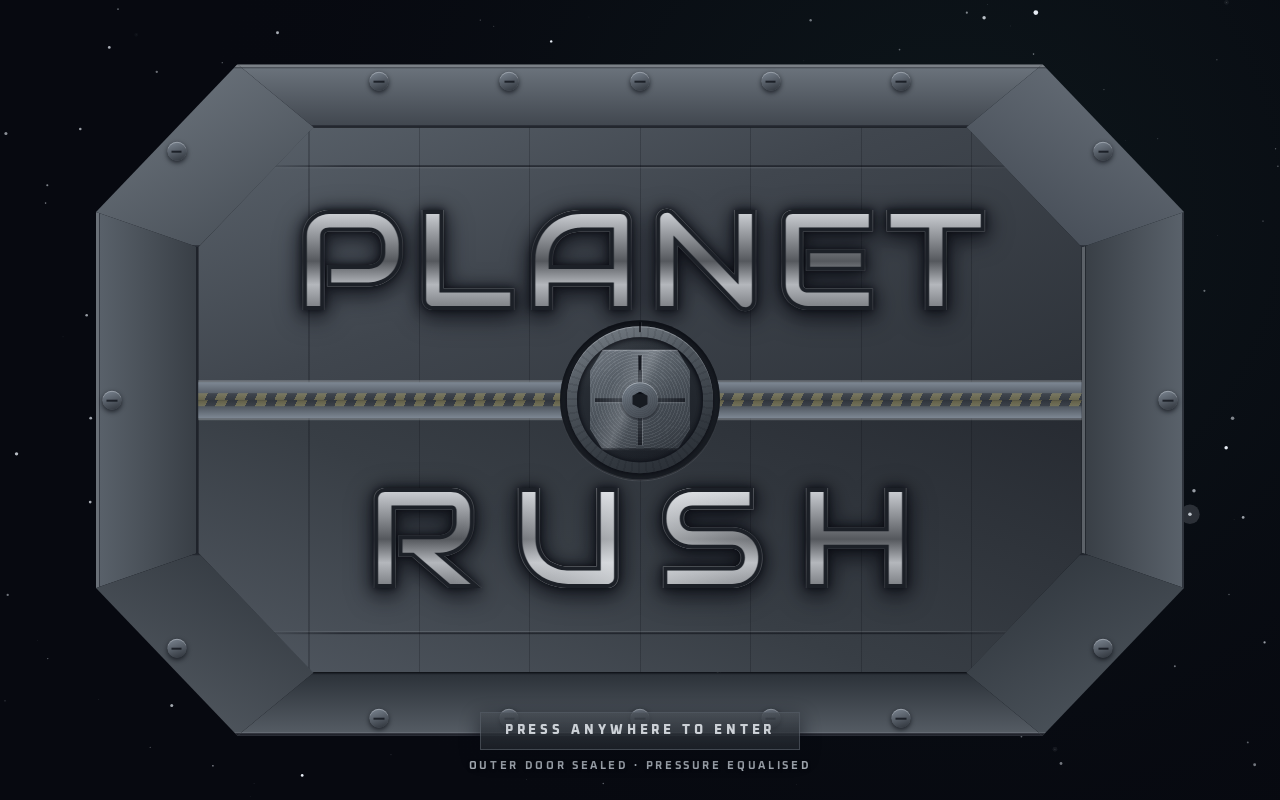
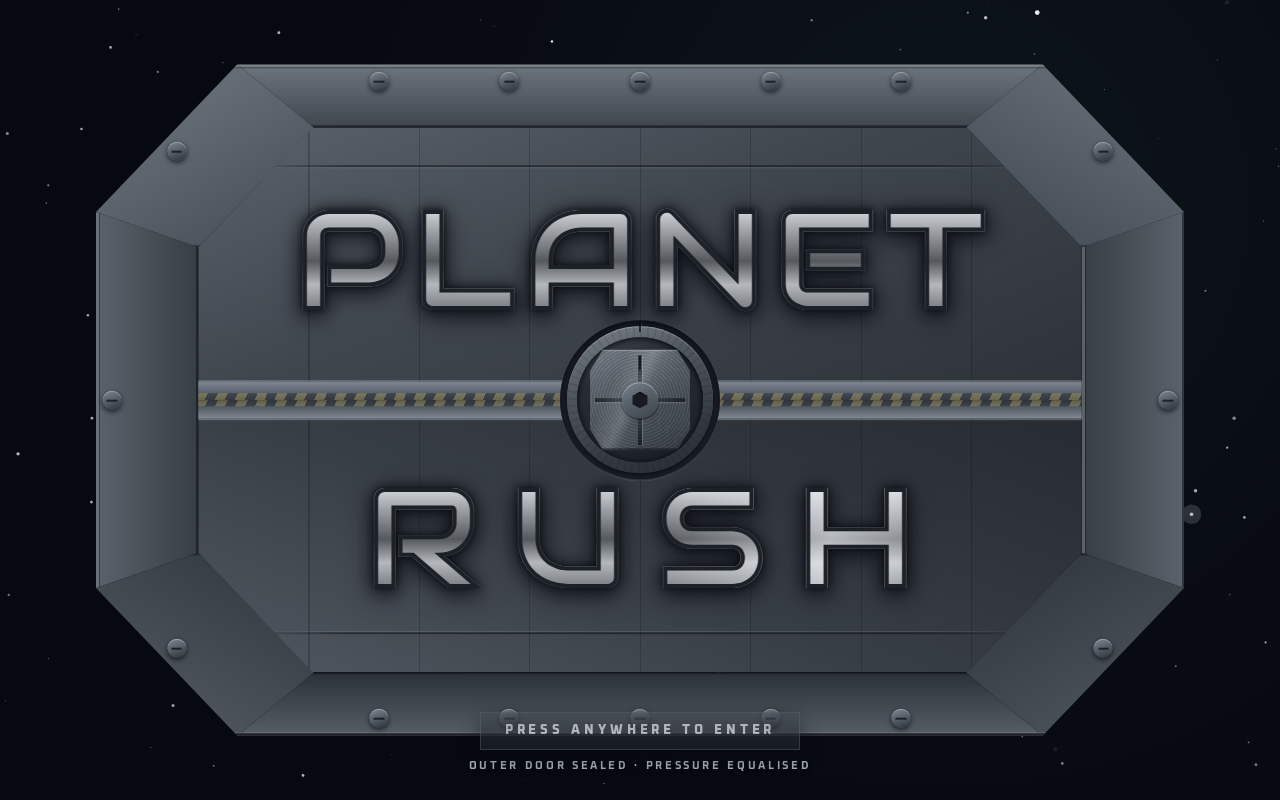
fix(a0-50): the door turns with the game — the landscape lock reaches the overlay
Second thing found in a browser and invisible to every test in this repo, on the
device the developer actually plays on.

A phone held portrait gets a game rotated +90° so the player turns the handset
(`../platform/orientation`). The gate is DOM, so it does not ride that rotation
for free — and a gate that ignores it is a **portrait door in front of a
landscape menu**. Photographed on a 390x844 handset it was worse than sideways:
every measurement on this screen is viewport-relative, and rotating a root does
not change what `vw` and `vh` mean. The lock is `min(148px, 17vh)`, and in
portrait `vh` is the LONG side, so the rotor sat at its pixel cap while the door
shrank under it — a rotor two thirds the height of the door it is bolted through,
a clearance (`min(74px, 8.5vh)`) that ate the whole leaf, and both words clipped
through the middle.

It needs both halves, and the first alone made it worse rather than better:

- **The root takes the lock's own transform.** `gateRootLayoutCss` is the CSS
  spelling of `RootTransform` — `{ rotation: π/2, x: physW, y: 0 }` as
  `transform-origin:0 0; translateX(physW) rotate(90deg)`, with the element sized
  to the LOGICAL rect. `computeRootTransform` is imported rather than restated,
  so the door and the game cannot disagree about which way is up. Same trick
  `src/net/playtest-log-button.ts` plays, for the same reason.
- **Every unit is read against the logical viewport.** `--pr-gate-vw` /
[…]

diff --git a/src/ui/title-gate.ts b/src/ui/title-gate.ts
@@ -93,6 +93,11 @@
  */
 
 import { mulberry32 } from '@shared/types';
+// The landscape lock, shared with the Pixi root rather than restated: a portrait
+// handset gets a game rotated +90°, and a door that ignores that is a portrait
+// door in front of a landscape menu (see `gateRootLayoutCss`).
+import { computeRootTransform } from '@platform/orientation';
+import type { RootTransform } from '@platform/orientation';
 import { FLOOR, PALETTE } from '../art/tokens';
 import { GAME_NAME, extraTracking, splitWordmark } from './game-name';
 import type { GateCue, GateSfx } from './sfx';
@@ -506,7 +511,7 @@ function titleFont(track: number): string {
   const size = TITLE.size / 100;
   return (
     'font-family:Audiowide,system-ui,sans-serif;' +
-    `font-size:min(clamp(20px,${(8.2 * size).toFixed(2)}vw,${Math.round(108 * size)}px),${(11.4 * size).toFixed(2)}vh);` +
+    `font-size:min(clamp(20px,${vw(8.2 * size)},${Math.round(108 * size)}px),${vh(11.4 * size)});` +
     'line-height:.92;white-space:nowrap;' +
     `letter-spacing:${track.toFixed(3)}em;` +
     // Letter-spacing adds a trailing space the browser then centres, so the
@@ -644,9 +649,73 @@ export const TITLE_GATE_LEAF_ID = 'pr-title-gate-leaf';
  * exactly as {@link throughScale} is, and `#app` carries the safe-area padding.
  */
 export const TITLE_GATE_ROOT_CSS =
-  'position:fixed;inset:0;overflow:hidden;z-index:20;background:transparent;' +
+  'position:fixed;left:0;top:0;overflow:hidden;z-index:20;background:transparent;' +
   'font-family:Oxanium,system-ui,sans-serif;cursor:var(--pr-gate-cursor,pointer);' +
   'touch-action:none;-webkit-tap-highlight-color:transparent;';
+
+/**
+ * The overlay's half of the **landscape lock** — the rest of it is
+ * `../platform/orientation`, and this is the DOM restatement of the exact same
+ * transform the Pixi root already takes.
+ *
+ * A phone held portrait gets a game rotated +90° so the player turns the handset
+ * (`computeRootTransform`). The gate is DOM, so it does not ride that rotation
+ * for free, and a gate that ignores it is a **portrait door in front of a
+ * landscape menu**: the leaves open onto a menu lying on its side, and — because
+ * every measurement on this screen is viewport-relative — the door itself comes
+ * out wrong on the way there. Photographed on a 390×844 handset: the lock swells
+ * to two thirds of the door's height (it is sized off `vh`, and in portrait `vh`
+ * is the LONG side), the clearance under it eats the whole leaf, and both words
+ * are clipped through the middle. The screen is unreadable, and no test in this
+ * repo can see it — the mobile suite boots `?gate=0`.
+ *
+ * So the overlay is laid out in the LOGICAL (landscape) viewport and rotated onto
+ * the physical one, which is the same trick `src/net/playtest-log-button.ts`
+ * plays for the same reason. `transform-origin:0 0` with `translateX(physW)`
+ * lands the rotated rect exactly on the screen — the CSS spelling of
+ * `RootTransform`'s `{ rotation: π/2, x: physW, y: 0 }`, no gaps.
+ *
+ * Everywhere else — desktop, and any landscape viewport — it is the identity, and
+ * the element is simply the window.
+ */
+export function gateRootLayoutCss(t: {
+  readonly rotated: boolean;
+  readonly logicalWidth: number;
+  readonly logicalHeight: number;
+}): string {
+  // The two units the whole screen is drawn in, pinned to the LOGICAL viewport.
+  // Rotating the root does not change what `vw` and `vh` mean — they are always
+  // the physical window — so a door written in raw viewport units comes out
+  // measured against the wrong sides the moment the lock engages. These are one
+  // percent of the box the door actually lives in, and everything below reads
+  // them through {@link vw} / {@link vh}.
+  const units = `--pr-gate-vw:${t.logicalWidth / 100}px;--pr-gate-vh:${t.logicalHeight / 100}px;`;
+  if (!t.rotated) return `${units}width:100%;height:100%;transform:none;transform-origin:50% 50%;`;
+  // Rotated: the element is the LOGICAL rect, and `logicalHeight` is the physical
+  // width — which is exactly the translation the transform needs.
+  return (
+    units +
+    `width:${t.logicalWidth}px;height:${t.logicalHeight}px;` +
+    `transform-origin:0 0;transform:translateX(${t.logicalHeight}px) rotate(90deg);`
+  );
+}
+
+/**
+ * `n` percent of the logical viewport's WIDTH — `n vw`, measured against the box
+ * the door is laid out in rather than against the physical window.
+ *
+ * The fallback is the raw unit, so an overlay that has not been laid out yet (or
+ * a caller rendering the markup on its own, as the tests do) behaves exactly as
+ * the design file does. See {@link gateRootLayoutCss}.
+ */
+function vw(n: number): string {
+  return `calc(var(--pr-gate-vw, 1vw) * ${Number(n.toFixed(3))})`;
+}
+
+/** `n` percent of the logical viewport's HEIGHT. See {@link vw}. */
+function vh(n: number): string {
+  return `calc(var(--pr-gate-vh, 1vh) * ${Number(n.toFixed(3))})`;
+}
 
 /** The self-hosted faces, byte-identical to `index.html`'s declarations. */
 export const FONT_URLS = {
@@ -689,7 +758,7 @@ const OPENING_CLIP = (() => {
 /** One machined fastener, seated in the jamb ring at `x`/`y` percent. */
 function bolt(x: string, y: string): string {
   return (
-    `<div style="position:absolute;left:${x};top:${y};width:min(19px,1.6vw);aspect-ratio:1;` +
+    `<div style="position:absolute;left:${x};top:${y};width:min(19px,${vw(1.6)});aspect-ratio:1;` +
     'transform:translate(-50%,-50%) scale(var(--pr-gate-bolt-scale));' +
     `transition:transform ${TRANSITION.bolt}ms cubic-bezier(.4,0,.2,1);">` +
     '<div style="width:100%;height:100%;border-radius:50%;background:linear-gradient(160deg,#7e8894,#2d3239);' +
@@ -726,7 +795,7 @@ function flangeScrews(): string {
 function lock(): string {
   const facet = `clip-path:${OPENING_CLIP};`;
   return (
-    '<div style="position:absolute;left:50%;bottom:0;width:min(148px,17vh);aspect-ratio:1;' +
+    `<div style="position:absolute;left:50%;bottom:0;width:min(148px,${vh(17)});aspect-ratio:1;` +
     `transform:translate(-50%,50%) scale(var(--pr-gate-hub-scale));transition:transform ${TRANSITION.hub}ms ease-out;">` +
     // the bored pocket the mechanism is recessed into
     `<div style="position:absolute;inset:-9%;border-radius:50%;background:radial-gradient(circle,#1a1e24 62%,#2b3138 100%);box-shadow:inset 0 3px 7px rgba(${INK},.95), inset 0 -1px 0 rgba(238,242,247,.14), 0 1px 0 rgba(238,242,247,.1);"></div>` +
@@ -810,7 +879,7 @@ function leaf(word: string, track: number, canClip: boolean, upper: boolean): st
     `<div style="position:absolute;left:0;right:0;${edge}:6.5%;height:2px;background:rgba(238,242,247,.26);"></div>` +
     `<div style="position:absolute;left:0;right:0;${edge}:0;height:2.4%;opacity:var(--pr-gate-haz-op);transition:opacity ${TRANSITION.hazard}ms ease-out;background:repeating-linear-gradient(115deg, rgba(${HAZARD},.44) 0 9px, rgba(38,42,49,.94) 9px 18px);"></div>` +
     // the type, struck into the leaf and travelling with it
-    `<div style="position:absolute;left:6%;right:6%;${edge}:calc(min(74px,8.5vh) + ${TITLE.lockGap}%);display:flex;justify-content:center;isolation:isolate;">` +
+    `<div style="position:absolute;left:6%;right:6%;${edge}:calc(min(74px,${vh(8.5)}) + ${TITLE.lockGap}%);display:flex;justify-content:center;isolation:isolate;">` +
     `<span style="${titleCss(track, canClip)}${sheenDelay}">${escapeHtml(word)}</span>` +
     '</div>' +
     '</div>'
@@ -875,7 +944,7 @@ export function titleGateHtml(options: GateHtmlOptions = {}): string {
     // inside the frame's clip, which is why they read as retracting INTO the
     // hull instead of sliding across it.
     `<div id="${TITLE_GATE_DOOR_ID}" style="position:absolute;z-index:3;left:50%;top:50%;` +
-    `width:min(${DOOR.widthOfVw * 100}vw,${DOOR.widthOfVh * 100}vh);aspect-ratio:${DOOR.aspect};` +
+    `width:min(${vw(DOOR.widthOfVw * 100)},${vh(DOOR.widthOfVh * 100)});aspect-ratio:${DOOR.aspect};` +
     'transform:translate(-50%,-50%) scale(var(--pr-gate-door-scale));opacity:var(--pr-gate-door-op);' +
     `transition:transform ${TRANSITION.frame}ms cubic-bezier(.42,0,.5,1), opacity ${TRANSITION.fade}ms linear;pointer-events:none;">` +
     jamb() +
@@ -892,12 +961,12 @@ export function titleGateHtml(options: GateHtmlOptions = {}): string {
     '</div>' +
     // The prompt. Register 2 (style-guide §8): procedural, unglamorous, present
     // tense, and it names the action in its first three words.
-    '<div style="position:absolute;z-index:4;left:0;right:0;bottom:max(3.4vh,22px);display:flex;flex-direction:column;align-items:center;gap:9px;' +
+    `<div style="position:absolute;z-index:4;left:0;right:0;bottom:max(${vh(3.4)},22px);display:flex;flex-direction:column;align-items:center;gap:9px;` +
     `opacity:var(--pr-gate-prompt-op);transition:opacity ${TRANSITION.hazard}ms ease-out;pointer-events:none;">` +
     `<div style="display:flex;align-items:center;padding:10px 24px;border:1px solid #515861;background:linear-gradient(180deg,rgba(198,205,214,.1),rgba(198,205,214,0) 50%),linear-gradient(#383e45,#20252c);box-shadow:0 6px 20px rgba(${INK},.75);animation:pr-gate-prompt 2.1s ease-in-out infinite;">` +
-    `<span style="font-family:Oxanium,system-ui,sans-serif;font-weight:800;font-size:clamp(10px,1.2vw,13px);letter-spacing:.3em;color:${BONE_WHITE};">${PROMPT}</span>` +
+    `<span style="font-family:Oxanium,system-ui,sans-serif;font-weight:800;font-size:clamp(10px,${vw(1.2)},13px);letter-spacing:.3em;color:${BONE_WHITE};">${PROMPT}</span>` +
     '</div>' +
-    `<span style="font-family:Oxanium,system-ui,sans-serif;font-weight:700;font-size:clamp(9px,1vw,11px);letter-spacing:.24em;color:#a5acb4;text-shadow:0 1px 3px rgba(${INK},.9);">${STATUS_LINE}</span>` +
+    `<span style="font-family:Oxanium,system-ui,sans-serif;font-weight:700;font-size:clamp(9px,${vw(1)},11px);letter-spacing:.24em;color:#a5acb4;text-shadow:0 1px 3px rgba(${INK},.9);">${STATUS_LINE}</span>` +
     '</div>'
   );
 }
@@ -1517,6 +1586,13 @@ export interface GateBrowser {
   readonly window: Window & typeof globalThis;
   /** Where the overlay goes: `#app`, above the game canvas. */
   readonly mount: HTMLElement;
+  /**
+   * Is this a touch device — the input to the landscape lock, and the ONLY thing
+   * that decides whether a portrait viewport is a phone held portrait or a
+   * narrow desktop window (`../platform/orientation` `computeRootTransform`).
+   * Defaults to the same read `src/main.ts` makes.
+   */
+  readonly isTouch?: boolean;
 }
 
 /**
@@ -1531,11 +1607,36 @@ export interface GateBrowser {
  */
 export function browserGateDom(browser: GateBrowser): GateDom {
   const { document: doc, window: win, mount: host } = browser;
+  const isTouch =
+    browser.isTouch ?? ('ontouchstart' in win || (win.navigator?.maxTouchPoints ?? 0) > 0);
   let root: HTMLElement | null = null;
   let canvas: HTMLCanvasElement | null = null;
   let door: HTMLElement | null = null;
   let leaf: HTMLElement | null = null;
   let unbind: (() => void)[] = [];
+  /** The gate's own custom properties, kept so a relayout can replay them. */
+  const vars = new Map<string, string>();
+
+  /** The live landscape lock, read from the real window each time it is needed —
+   *  a phone can be turned while this screen is up. */
+  const transform = (): RootTransform =>
+    computeRootTransform(win.innerWidth, win.innerHeight, isTouch);
+
+  /**
+   * Re-lay the overlay for the orientation it is in now. Idempotent, so the
+   * resize listener can call it on every event without measuring anything.
+   *
+   * `cssText` replaces the whole declaration block, custom properties included,
+   * so the gate's own variables are replayed after it. Setting them one property
+   * at a time instead would put the layout in two places — the string the tests
+   * hold and the writes the browser gets — and those are exactly the two that
+   * must not be allowed to disagree.
+   */
+  const applyLayout = (): void => {
+    if (!root) return;
+    root.style.cssText = TITLE_GATE_ROOT_CSS + gateRootLayoutCss(transform());
+    for (const [name, value] of vars) root.style.setProperty(name, value);
+  };
 
   /** A CSS transform's `translateY`/`scale`, read off the live computed style —
    *  which is what "measured, never assumed" means in a browser. */
@@ -1554,10 +1655,10 @@ export function browserGateDom(browser: GateBrowser): GateDom {
     mount(html, on) {
       const el = doc.createElement('div');
       el.id = TITLE_GATE_ID;
-      el.style.cssText = TITLE_GATE_ROOT_CSS;
       el.innerHTML = html;
       host.appendChild(el);
       root = el;
+      applyLayout();
       canvas = el.querySelector<HTMLCanvasElement>(`#${TITLE_GATE_SKY_ID}`);
       door = el.querySelector<HTMLElement>(`#${TITLE_GATE_DOOR_ID}`);
       leaf = el.querySelector<HTMLElement>(`#${TITLE_GATE_LEAF_ID}`);
@@ -1572,7 +1673,13 @@ export function browserGateDom(browser: GateBrowser): GateDom {
           on.escape();
         }
       };
-      const resize = (): void => on.resize();
+      // The lock is re-applied BEFORE the gate re-measures, so `view()` and the
+      // canvas below it agree with the element they are describing on the very
+      // first frame after a flip rather than one frame later.
+      const resize = (): void => {
+        applyLayout();
+        on.resize();
+      };
       el.addEventListener('pointerdown', press);
       win.addEventListener('keydown', key);
       win.addEventListener('resize', resize);
@@ -1592,6 +1699,7 @@ export function browserGateDom(browser: GateBrowser): GateDom {
       leaf = null;
     },
     setVar(name, value) {
+      vars.set(name, value);
       root?.style.setProperty(name, value);
     },
     setVisible(visible) {
@@ -1620,9 +1728,14 @@ export function browserGateDom(browser: GateBrowser): GateDom {
       return m ? Math.abs(m.f) : null;
     },
     view() {
+      // The LOGICAL (landscape) viewport, which is the space the whole screen is
+      // laid out in — `throughScale`, the door box and the punch alike. On a
+      // desktop or a landscape phone it is the window; on a phone held portrait
+      // it is the window with its sides swapped, and the root carries the +90°.
+      const t = transform();
       return {
-        width: win.innerWidth,
-        height: win.innerHeight,
+        width: t.logicalWidth,
+        height: t.logicalHeight,
         dpr: Math.min(2, win.devicePixelRatio || 1),
       };
     },

diff --git a/src/ui/title-gate.test.ts b/src/ui/title-gate.test.ts
@@ -36,6 +36,7 @@ import {
   doorBox,
   fieldAnimates,
   gateEnabled,
+  gateRootLayoutCss,
   gateVars,
   insidePolygon,
   makeStars,
@@ -53,6 +54,7 @@ import {
   type GatePhase,
   type GateView,
 } from './title-gate';
+import { computeRootTransform } from '@platform/orientation';
 import { extraTracking, splitWordmark } from './game-name';
 import type { GateCue } from './sfx';
 // The bank the gate's four beats are slots in — imported so the seam cannot
@@ -1116,6 +1118,63 @@ describe('what is behind the door cannot be operated through it', () => {
 // ---------------------------------------------------------------------------
 // `?gate=0` — THE HARNESS'S WAY PAST A DOOR BUILT TO BE OPERATED
 // ---------------------------------------------------------------------------
+
+// ---------------------------------------------------------------------------
+// THE LANDSCAPE LOCK — THE DOOR TURNS WITH THE GAME
+// ---------------------------------------------------------------------------
+
+describe('a phone held portrait', () => {
+  it('lays the door out in the logical viewport and rotates it, exactly as the game root does', () => {
+    // The lock is not restated here: the same `computeRootTransform` the Pixi
+    // root takes is the input, so the two cannot drift apart. What this asserts
+    // is that the CSS is the faithful spelling of it — `{ rotation: π/2,
+    // x: physW, y: 0 }` — and that `physW` is `logicalHeight`, which is the step
+    // that makes the rotated rect land on the screen with no gaps.
+    const portrait = computeRootTransform(390, 844, true);
+    expect(portrait.rotated).toBe(true);
+    const css = gateRootLayoutCss(portrait);
+    expect(css).toContain('width:844px');
+    expect(css).toContain('height:390px');
+    expect(css).toContain('transform-origin:0 0');
+    expect(css).toContain('translateX(390px) rotate(90deg)');
+    expect(portrait.logicalHeight).toBe(390); // …and 390 IS the physical width
+  });
+
+  it('is the identity on a desktop and on a landscape phone', () => {
+    for (const t of [computeRootTransform(1280, 800, false), computeRootTransform(844, 390, true)]) {
+      expect(t.rotated).toBe(false);
+      const css = gateRootLayoutCss(t);
+      expect(css).toContain('width:100%');
+      expect(css).toContain('height:100%');
+      expect(css).toContain('transform:none');
+    }
+  });
+
+  it('measures the door against the LOGICAL viewport, so the lock cannot swallow it', () => {
+    // The failure this prevents, photographed on a 390x844 handset before the
+    // lock reached the overlay. Two scales meet on this screen and only one of
+    // them is the door: the door is `min(94vw, 136vh)` wide, and the lock is
+    // `min(148px, 17vh)` — a `vh` that is the LONG side in portrait, so the lock
+    // simply sits at its 148px cap while the door shrinks under it. The result
+    // was a rotor two thirds the height of the door it is bolted to, a clearance
+    // (`min(74px, 8.5vh)`) that ate the whole leaf, and both words clipped
+    // through the middle.
+    const LOCK_PX_CAP = 148;
+    const lockSize = (v: GateView): number => Math.min(LOCK_PX_CAP, 0.17 * v.height);
+    const share = (v: GateView): number => lockSize(v) / doorBox(v).height;
+
+    const logical: GateView = { width: 844, height: 390 }; // what the lock hands us
+    const raw: GateView = { width: 390, height: 844 }; // what the window says
+
+    expect(share(raw)).toBeGreaterThan(0.6); // the photographed failure
+    expect(share(logical)).toBeLessThan(0.25); // the door it was designed for
+    // …and the door still fits inside the viewport it is drawn in, which is the
+    // property the whole screen depends on.
+    const box = doorBox(logical);
+    expect(box.width).toBeLessThanOrEqual(logical.width);
+    expect(box.height).toBeLessThanOrEqual(logical.height);
+  });
+});
 
 describe('?gate=0', () => {
   it('is off by default, and has to be asked for by name', () => {

diff --git a/evidence/a0-50-title-gate/README.md b/evidence/a0-50-title-gate/README.md
@@ -50,6 +50,30 @@ finding rather than a caveat. It is why this shipped: sealed is the state anyone
 would think to photograph, and sealed is the state where the leaves cover the
 defect.
 
+## The handset — `phone-*`
+
+390×844 and 844×390, dpr 3, touch.
+
+A phone held **portrait** gets a game rotated +90°, so the player turns the
+handset (`src/platform/orientation.ts`, the landscape lock). The gate is DOM and
+does not ride that rotation for free, and it did not take it until this brief:
+`phone-portrait-sealed.png` shows the overlay under the same transform the Pixi
+root takes, and `phone-portrait-parting.png` shows the real menu — PLAY, CODEX,
+SETTINGS, HANGAR — through the opening, in the orientation the game is in.
+
+`phone-landscape-*.png` is the identity case: no rotation, and the same screen
+the desktop gets.
+
+**What it looked like before**, photographed on the same handset: every
+measurement on this screen is viewport-relative, and rotating a root does not
+change what `vw` and `vh` mean. The lock is `min(148px, 17vh)` and in portrait
+`vh` is the LONG side, so the rotor simply sat at its pixel cap while the door
+shrank under it — two thirds the height of the door it is bolted through, a
+clearance that ate the whole leaf, and both words clipped through the middle. The
+fix is two parts, and it needs both: the root takes the lock's transform, and
+every unit on the screen is read against the LOGICAL viewport through
+`--pr-gate-vw` / `--pr-gate-vh` rather than against the physical window.
+
 ### Why no unit test saw it
 
 The punch is `destination-out` on the canvas (`paintSky`), so it erases the
